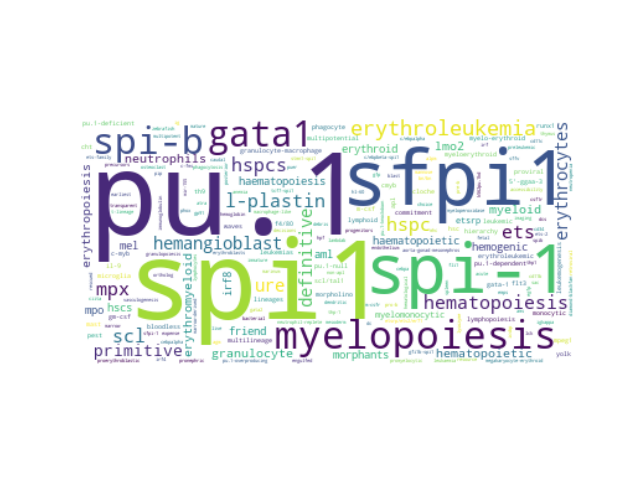
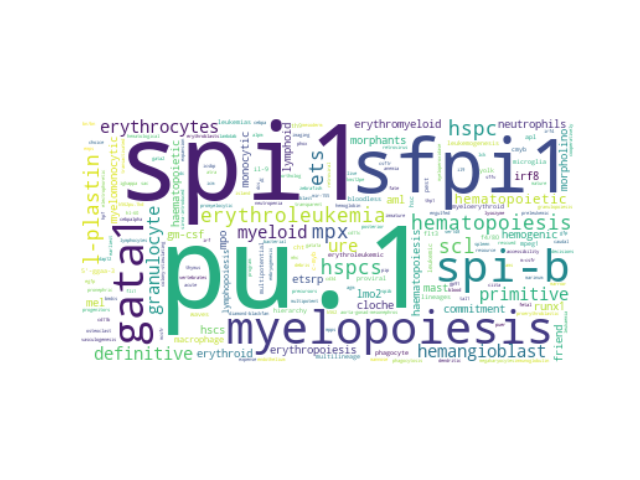
updated fig

Changed region(s): [[0.125, 0.25, 0.9062, 0.7812]]

diff --git a/wordclouds.py b/wordclouds.py
@@ -455,8 +455,7 @@ def __get_word_clouds(output_dir="./", threads=1, filter_by_stem=False):
             header=0, converters={"Stem": ast.literal_eval})
         for _, row in df.iterrows():
             if filter_by_stem:
-                intersection = len(stems.intersection(set(row["Stem"])))
-                if intersection == len(row["Stem"]):
+                if stems.intersection(set(row["Stem"])):
                     continue
             words.append(row["Word"])
             weights.append(row["Combo TF-IDF"])
